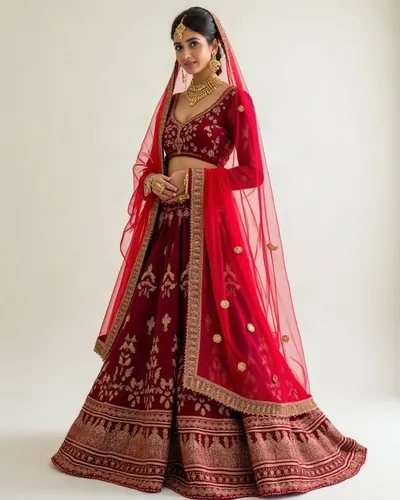
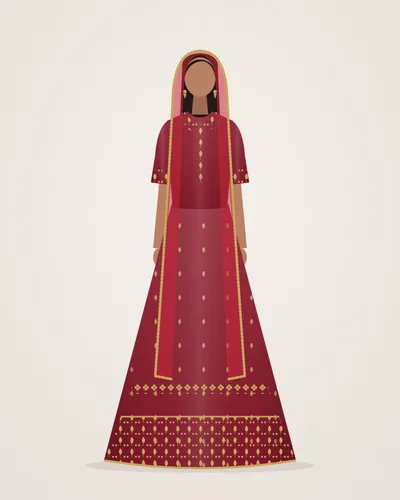
Use Claude-drawn fashion illustrations for all 12 products
tools/illustrate.mjs draws each look in SVG (faceless croquis, garment
cut, print, embroidery bands, dupatta) and renders it with headless
Chrome; build_images.py now builds from these by default (AI photos
remain available with IMG_SOURCE=photos). Footer and README updated;
README documents the end-to-end test suite.

diff --git a/index.html b/index.html
@@ -74,7 +74,7 @@
           <li><a href="#/shop/bridal">Bridal</a></li>
         </ul>
       </div>
-      <p class="fine">Preview mockup for feedback. Designer names are fictional, product photos are AI-generated, and prices, duties and delivery times are illustrative.</p>
+      <p class="fine">Preview mockup for feedback. Designer names are fictional, product images are illustrations drawn for this mockup, and prices, duties and delivery times are illustrative.</p>
     </div>
   </footer>
 

diff --git a/img/manifest.js b/img/manifest.js
@@ -1,1 +1,1 @@
-const IMAGES_READY = new Set(["p01", "p02", "p03"]);
+const IMAGES_READY = new Set(["p01", "p02", "p03", "p04", "p05", "p06", "p07", "p08", "p09", "p10", "p11", "p12"]);

diff --git a/tools/build_images.py b/tools/build_images.py
@@ -1,19 +1,25 @@
-"""Convert img/raw/*.jpg into web images: 4:5 crops at 768x960 and 400x500, WebP.
+"""Build the site's product images: 4:5 WebP at 768x960 and 400x500, plus img/manifest.js.
+Source (env IMG_SOURCE): art (default) = Claude-drawn illustrations in img/art/*.png (tools/illustrate.mjs)
+                         photos         = AI photos in img/raw/*.jpg (tools/gen_images.py)
 Usage: python tools/build_images.py"""
+import os
 import pathlib
 from PIL import Image, ImageOps
 
 ROOT = pathlib.Path(__file__).resolve().parent.parent
-RAW, OUT = ROOT / 'img' / 'raw', ROOT / 'img'
+OUT = ROOT / 'img'
+SOURCE = os.environ.get('IMG_SOURCE', 'art')
+SRC_DIR, PATTERN = (OUT / 'art', '*.png') if SOURCE == 'art' else (OUT / 'raw', '*.jpg')
 
-for src in sorted(RAW.glob('*.jpg')):
+sources = sorted(SRC_DIR.glob(PATTERN))
+for src in sources:
     im = ImageOps.exif_transpose(Image.open(src)).convert('RGB')
     im = ImageOps.fit(im, (768, 960), Image.LANCZOS, centering=(0.5, 0.35))
-    im.save(OUT / f'{src.stem}.webp', 'WEBP', quality=82, method=6)
-    im.resize((400, 500), Image.LANCZOS).save(OUT / f'{src.stem}-400.webp', 'WEBP', quality=80, method=6)
+    im.save(OUT / f'{src.stem}.webp', 'WEBP', quality=86, method=6)
+    im.resize((400, 500), Image.LANCZOS).save(OUT / f'{src.stem}-400.webp', 'WEBP', quality=84, method=6)
     print(src.stem, 'done')
 
-# The site reads this list so products without a photo yet show a colour placeholder instead of a broken image.
-ready = sorted(p.stem for p in RAW.glob('*.jpg'))
+# The site reads this list so products without an image yet show a colour placeholder instead of a broken image.
+ready = sorted(p.stem for p in sources)
 (OUT / 'manifest.js').write_text(f"const IMAGES_READY = new Set({ready!r});\n".replace("'", '"'), encoding='utf-8')
 print('manifest:', ready)

diff --git a/README.md b/README.md
@@ -16,7 +16,7 @@ It is a static site (HTML, CSS, vanilla JavaScript): no build step, no backend. 
 ## Content notes
 
 - Designer names are fictional. Prices, duties and delivery times are illustrative.
-- Product photos are AI-generated (FLUX.1 [dev]); products without a photo yet show a colour placeholder.
+- Product images are fashion illustrations drawn in code by Claude (`tools/illustrate.mjs`). AI photos can be swapped back in with `IMG_SOURCE=photos`.
 - The page asks search engines not to index it.
 
 ## Run locally
@@ -26,15 +26,34 @@ python -m http.server 8765
 # open http://127.0.0.1:8765/
 ```
 
-## Regenerate product photos
+## Regenerate product images
 
-Shots are described in `tools/shots.json`.
+Illustrations (default): each product's look is described in `LOOKS` inside `tools/illustrate.mjs`.
+
+```bash
+npm install
+node tools/illustrate.mjs            # draws img/art/*.svg and *.png
+python tools/build_images.py         # converts to WebP and updates img/manifest.js
+```
+
+AI photos (optional; shots in `tools/shots.json`):
 
 ```bash
 python tools/gen_images.py            # generates any missing shots (fal.ai key in ~/.fal_key.txt)
 IMG_PROVIDER=hf python tools/gen_images.py   # or via the Hugging Face router (~/.hf_key.txt)
-python tools/build_images.py          # converts img/raw/*.jpg to WebP and updates img/manifest.js
+IMG_SOURCE=photos python tools/build_images.py   # converts img/raw/*.jpg to WebP
 ```
+
+## End-to-end tests
+
+```bash
+npm install
+npm run serve &                      # local server on :8765
+BASE=http://127.0.0.1:8765/ npm run e2e
+npm run e2e                          # against the live site
+```
+
+63 checks across 8 journeys: browse, filter, sort, product page, bag, sticky bar, card and cash-on-delivery checkout, confirmation, tracking, region switch, feedback, and blocked browser storage.
 
 ## Files
 
